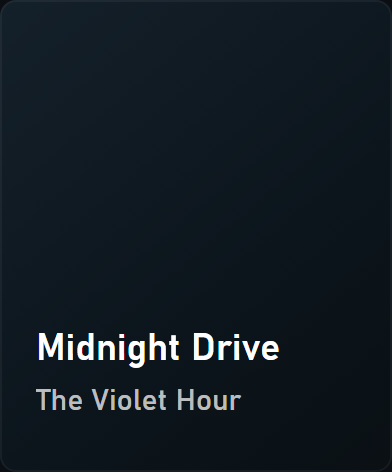
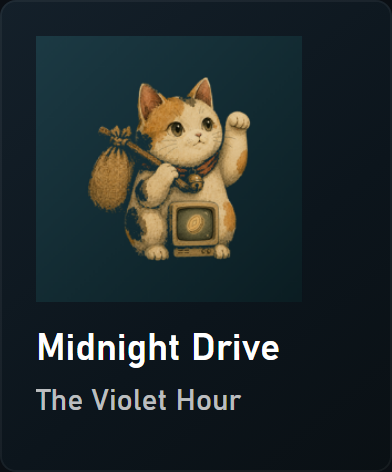
fix(gallery): restore now-playing album art + center the Monitor Switch
The gallery seeded the now-playing cover as ThumbnailInfo `data` (raw bytes),
but covers moved to a `url` (an `art://` URL in-app); NowPlaying reads `url`, so
the cover vanished from the regenerated docs shots. Seed a PNG `data:` URL
instead (renders identically, no backend needed). Also vertically center the
Monitor Switch in its demo column to remove the empty space beneath it.
Regenerated demo.png + widgets/nowplaying.png.

Changed region(s): [[0.2143, 0.1483, 0.6429, 0.5636], [0.0918, 0.0593, 0.3061, 0.2669]]

diff --git a/client/gallery/seed.ts b/client/gallery/seed.ts
@@ -287,14 +287,16 @@ export const fakeSpectrum: SpectrumSource = {
 	latestFrame: () => spectrumFrame()
 };
 
-/** Composite the branding icon onto a deterministic gradient and return PNG bytes — the now-playing
- * placeholder cover. Falls back to the gradient alone if the icon can't be drawn. */
-async function coverBytes(): Promise<number[]> {
+/** Composite the branding icon onto a deterministic gradient and return a PNG data: URL — the
+ * now-playing cover. (ThumbnailInfo carries a `url`, not bytes; in the app that's an `art://` URL
+ * from art.rs, but a data: URL renders identically and needs no backend.) Falls back to the
+ * gradient alone if the icon can't be drawn. */
+async function coverDataUrl(): Promise<string> {
 	const c = document.createElement('canvas');
 	c.width = 240;
 	c.height = 240;
 	const ctx = c.getContext('2d');
-	if (!ctx) return [];
+	if (!ctx) return '';
 	const g = ctx.createLinearGradient(0, 0, 240, 240);
 	g.addColorStop(0, '#1c3a44');
 	g.addColorStop(0.55, '#122a31');
@@ -308,8 +310,7 @@ async function coverBytes(): Promise<number[]> {
 	} catch {
 		// gradient-only fallback
 	}
-	const bytes = atob(c.toDataURL('image/png').split(',')[1]);
-	return Array.from(bytes, (ch) => ch.charCodeAt(0));
+	return c.toDataURL('image/png');
 }
 
 function loadImage(src: string): Promise<HTMLImageElement> {
@@ -323,7 +324,7 @@ function loadImage(src: string): Promise<HTMLImageElement> {
 
 /** Seed the module-level media store with one playing session (so NowPlaying renders a real track). */
 export async function seedMedia(): Promise<void> {
-	const data = await coverBytes();
+	const url = await coverDataUrl();
 	const model: SessionModel = {
 		source: 'foobar2000',
 		playback: { auto_repeat: 'None', rate: 1, shuffle: false, status: 'Playing', type: 'Music' },
@@ -343,7 +344,7 @@ export async function seedMedia(): Promise<void> {
 		source: 'foobar2000',
 		timestamp_created: null,
 		timestamp_updated: null,
-		last_media_update: { Media: [model, { content_type: 'image/png', data }] },
+		last_media_update: { Media: [model, { content_type: 'image/png', url }] },
 		last_model_update: { Model: model }
 	};
 	handleUpdate({ sessionRecord: record });

diff --git a/client/gallery/Gallery.tsx b/client/gallery/Gallery.tsx
@@ -203,7 +203,7 @@ const DEMO: WidgetInstance[] = [
 	// Column E (x 900, w 150) — DDC/CI monitor input switcher (VCP 0x60): the active input highlighted
 	// among the panel's supported sources, with the current display mode beneath.
 	buildInstance('monitorswitch', 'd-ddc', {
-		rect: { x: 900, y: 36, w: 150, h: 308 },
+		rect: { x: 900, y: 58, w: 150, h: 264 },
 		config: { showStats: true }
 	})
 ];